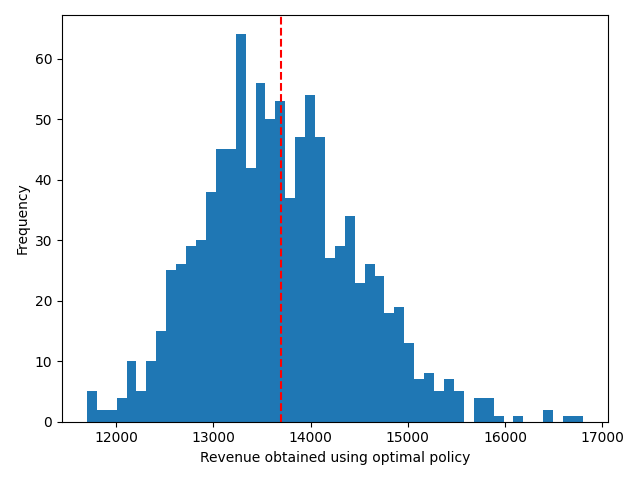
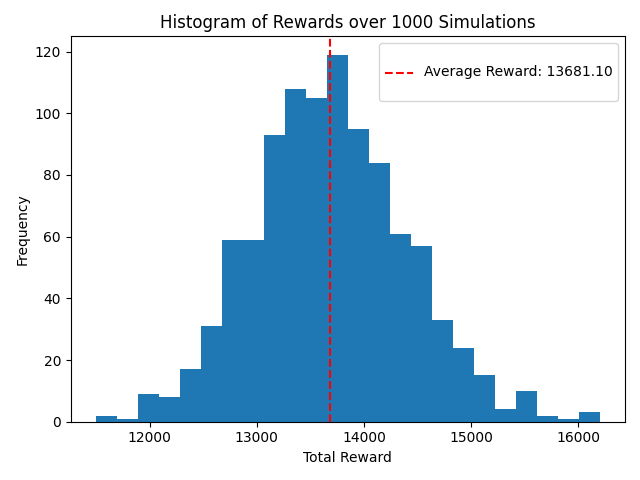
updated ass1

diff --git a/assignment1/ass1.py b/assignment1/ass1.py
@@ -1,3 +1,4 @@
+import numpy as np
 from numpy import zeros, argmax, ndarray, meshgrid, mean, dtype
 from numpy.random import uniform
 from pandas import DataFrame
@@ -123,10 +124,14 @@ def simulate(Td:int, Xd:int, A:list, P:list, policy:ndarray,
 
     print('Mean expected revenue', meanrev := mean(maxrewards))
 
-    plt.hist(maxrewards, bins = 50)
-    plt.axvline(x= meanrev, color = 'r', linestyle= "--") # mean expected revenue
+    plt.hist(maxrewards, bins = "auto")
+    # plt.axvline(x= meanrev, color = 'r', linestyle= "--") # mean expected revenue
+    plt.axvline(np.mean(maxrewards), color='r', linestyle='dashed', linewidth=1.5, label=f'\nAverage Reward: {np.mean(maxrewards):.2f}\n')
+    plt.xlabel('Total Reward')
     plt.ylabel('Frequency')
-    plt.xlabel('Revenue obtained using optimal policy')
+    # plt.xlabel('Revenue obtained using optimal policy')
+    plt.title('Histogram of Rewards over 1000 Simulations')
+    plt.legend()
     plt.tight_layout()
     plt.savefig('simulation.png')
     if show == True:
@@ -134,52 +139,57 @@ def simulate(Td:int, Xd:int, A:list, P:list, policy:ndarray,
     plt.close()
     return meanrev
 
-# if __name__ == '__main__':
-#     # GOAL: MAX SALES (max expected cumulative rewards)
-#     # Time (T): 500:0 decisions left in finite time horizon
-#     # State (Xt): Invenstory left at time t - 0:100
-#     #Dimensions of DP matrix
-#     T_dim, X_dim = 501, 101
-
-#     # Actions (A): Change price to 200 | 100 | 50
-#     # and corresponding immediate reward
-#     A = [50,100,200]
-
-#     # probability of sale with given price
-#     P = [0.8, 0.5, 0.1]
-
-#     # AB parts of the assignment
-#     MAXREV, rewards, policy = basic_inventory_dp(T_dim, X_dim, A, P)
-#     plot_policy(T_dim, X_dim, policy)
-#     avg_reward = simulate(T_dim, X_dim, A, P, policy)
-#     print("Average reward from 1000 simulations:", avg_reward)
-
-
-#     # Part D, E
-#     # State (Xt): (Inventory left at time t, PRICE at time t) TUPLE
+def plot_inventory_over_time(self):
+    inventory = self.initial_inventory
+    inventory_levels = [inventory]
+    for t in range(self.T):
+        if inventory == 0:
+            break
+        action = self.policy[t, inventory, 0]
+        sale = np.random.rand() < self.probabilities[action]
+        if sale:
+            inventory -= 1
+        inventory_levels.append(inventory)
     
+    plt.figure(figsize=(10, 6))
+    plt.plot(range(len(inventory_levels)), inventory_levels, marker='o')
+    plt.xlabel('Time Period')
+    plt.ylabel('Inventory Level')
+    plt.title('Inventory Level Over Time (Single Simulation)')
+    plt.show()
 
-#     # Actions (A(Price t+1)): Change price to a E {50, 100, 200} & a >= Price t+1 
-#     # at every time point will include only actions with higher price than price at X(t+1)
-#     mr, rew, pol = basic_inventory_dp(T_dim, X_dim, A, P, partDE=True)
-#     plot_policy(T_dim, X_dim, pol, name = 'optimal_policy_partD.png')
 
 if __name__ == '__main__':
-    # Initial setup for DP
+    # GOAL: MAX SALES (max expected cumulative rewards)
+    # Time (T): 500:0 decisions left in finite time horizon
+    # State (Xt): Invenstory left at time t - 0:100
+    #Dimensions of DP matrix
     T_dim, X_dim = 501, 101
-    A = [50, 100, 200]
+
+    # Actions (A): Change price to 200 | 100 | 50
+    # and corresponding immediate reward
+    A = [50,100,200]
+
+    # probability of sale with given price
     P = [0.8, 0.5, 0.1]
 
-    # Solve for Part D with price constraint
-    max_reward_D, rewards_D, policy_D = basic_inventory_dp(T_dim, X_dim, A, P, partDE=True)
-    
-    # Print the expected maximal reward for Part D
-    print("Expected maximal reward with no price increase constraint (Part D):", max_reward_D)
-    
-    # Plot the optimal policy for Part D
-    plot_policy(T_dim, X_dim, policy_D, name='optimal_policy_partD.png')
+    # AB parts of the assignment
+    MAXREV, rewards, policy = basic_inventory_dp(T_dim, X_dim, A, P)
+    plot_policy(T_dim, X_dim, policy)
+    avg_reward = simulate(T_dim, X_dim, A, P, policy)
+    print("Average reward from 1000 simulations:", avg_reward)
 
+
+    # Part D, E
+    # State (Xt): (Inventory left at time t, PRICE at time t) TUPLE
     
+
+    # Actions (A(Price t+1)): Change price to a E {50, 100, 200} & a >= Price t+1 
+    # at every time point will include only actions with higher price than price at X(t+1)
+    mr, rew, pol = basic_inventory_dp(T_dim, X_dim, A, P, partDE=True)
+    print("Expected maximal reward with no price increase constraint (Part D):", mr)
+    plot_policy(T_dim, X_dim, pol, name = 'optimal_policy_partD.png')
+
     
 # import sys
 # print("Python version:", sys.version)
